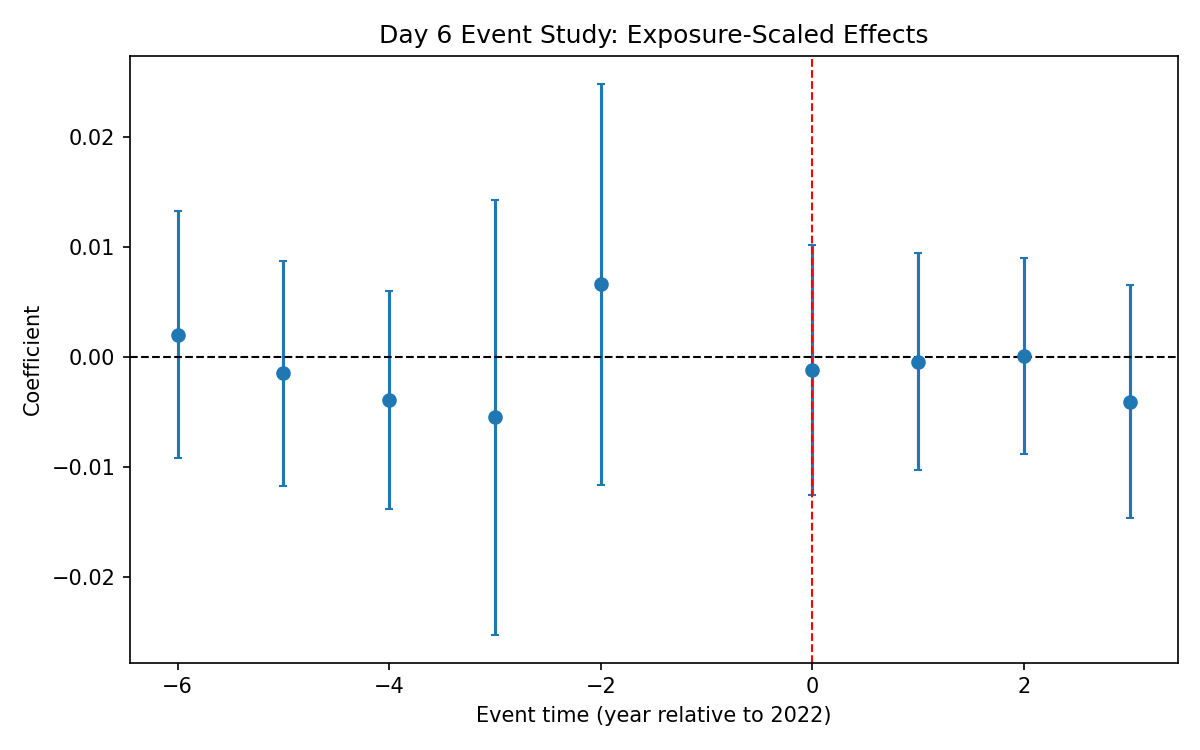
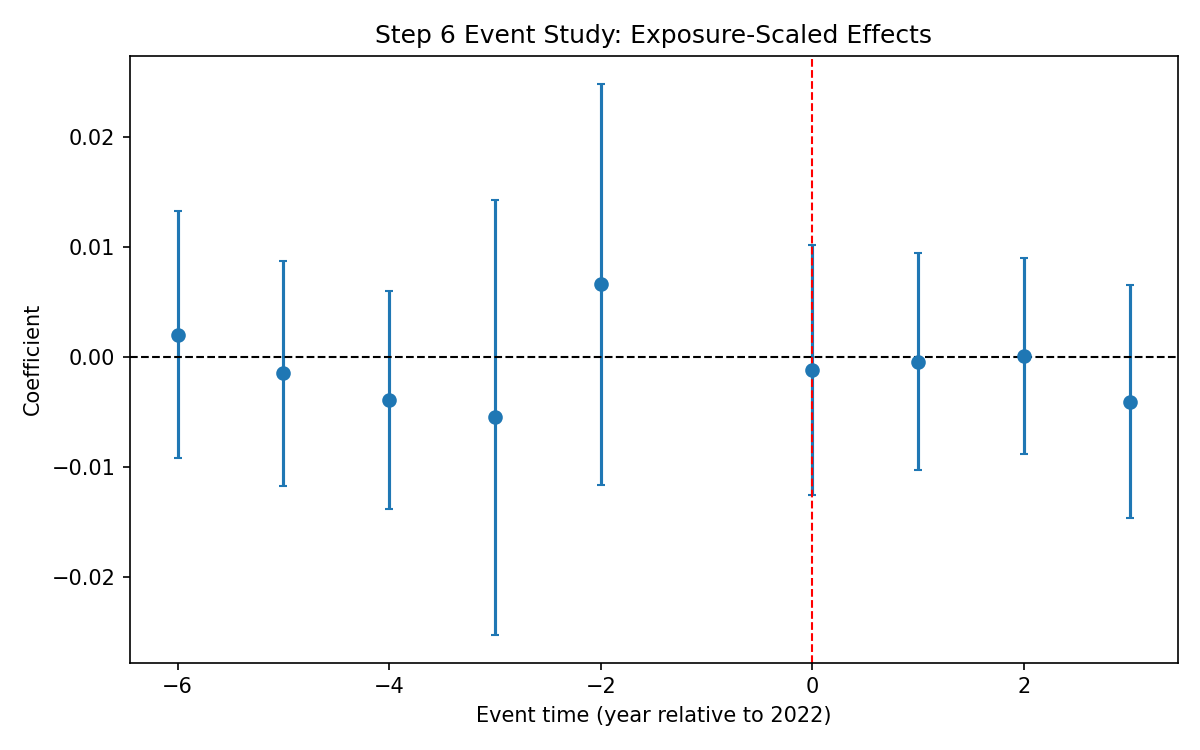
refactor: standardize step artifact naming and rerun pipeline

Changed region(s): [[0.3083, 0.0307, 0.7708, 0.0613]]

diff --git a/scripts/step7_finalize.py b/scripts/step7_finalize.py
@@ -12,21 +12,32 @@ def _read_json(p: Path):
     return json.loads(p.read_text()) if p.exists() else {}
 
 
-def main():
+def main() -> None:
     DOCS.mkdir(parents=True, exist_ok=True)
 
-    d3 = _read_json(OUT / "day3_eda_metrics.json")
-    d4 = _read_json(OUT / "day4_twfe_baseline_summary.json")
-    d5 = _read_json(OUT / "day5_robustness_summary.json")
-    d6 = _read_json(OUT / "day6_event_study_summary.json")
+    d3 = _read_json(OUT / "step3_eda_metrics.json")
+    d4 = _read_json(OUT / "step4_twfe_baseline_summary.json")
+    d5 = _read_json(OUT / "step5_robustness_summary.json")
+    d6 = _read_json(OUT / "step6_event_study_summary.json")
 
-    robustness = pd.read_csv(OUT / "day5_robustness_results.csv") if (OUT / "day5_robustness_results.csv").exists() else pd.DataFrame()
-    event = pd.read_csv(OUT / "day6_event_study_coefficients.csv") if (OUT / "day6_event_study_coefficients.csv").exists() else pd.DataFrame()
+    event = pd.read_csv(OUT / "step6_event_study_coefficients.csv") if (OUT / "step6_event_study_coefficients.csv").exists() else pd.DataFrame()
 
     pre = event[(event.get("event_time", pd.Series(dtype=float)) <= -2)] if not event.empty else pd.DataFrame()
     post = event[(event.get("event_time", pd.Series(dtype=float)) >= 0)] if not event.empty else pd.DataFrame()
 
     note = f"""# Step 7 — Final Public Research Progress Summary
+
+## Abstract (Academic Style)
+This project examines whether occupational AI exposure is systematically associated with differential wage-growth dynamics in U.S. major occupation groups. We merge a static occupation-level exposure measure (AIOE Appendix A) with annual FRED earnings series to construct a transparent, reproducible panel. The empirical design progresses from descriptive diagnostics to a two-way fixed effects (TWFE) exposure-intensity specification, robustness checks (alternative post thresholds and winsorized outcomes), and an event-study representation around the 2022 reference break. Across specifications, point estimates are economically small and statistically imprecise in this limited five-group panel, with no robust evidence of a large post-2022 differential wage-growth shift attributable to exposure intensity. These findings are best interpreted as disciplined reduced-form evidence and baseline measurement infrastructure, rather than definitive causal identification of realized AI adoption effects.
+
+## Executive Summary
+- **Objective:** Build a public, reproducible Step 1–Step 7 research package on AI exposure and wage growth.
+- **Data:** AIOE occupation exposure + annual FRED earnings series mapped to 5 major occupation groups.
+- **Core model:** TWFE intensity DiD (`ai_exposure_mean × 1[year>=2022]`) with group and year fixed effects.
+- **Main result:** Baseline coefficient = **{d4.get('coef', float('nan')):.6f}** (SE **{d4.get('se_hc1', float('nan')):.6f}**), indicating no large detectable post-2022 differential effect in this sample.
+- **Robustness:** Alternative threshold and winsorized outcome checks do not overturn the baseline null framing.
+- **Dynamics:** Event-study coefficients around 2022 do not show a strong discontinuous shift.
+- **Interpretation:** Useful as a reproducible baseline and screening framework; stronger treatment observability is required for structural causal claims.
 
 ## Completion status
 - Step 1 ✅ Problem framing
@@ -46,26 +57,26 @@ def main():
 - Step 6 mean post-event coefficient (k>=0): **{post['coef'].mean() if not post.empty else float('nan'):.6f}**
 
 ## Public artifacts
-- `docs/DAY1_problem_framing.md`
-- `docs/DAY2_data_extraction_spec.md`
-- `docs/DAY2_preanalysis_lock.md`
-- `docs/DAY3_eda_note.md`
-- `docs/DAY4_baseline_twfe_note.md`
-- `docs/DAY5_robustness_note.md`
-- `docs/DAY6_event_study_note.md`
-- `docs/DAY7_final_summary.md`
+- `docs/STEP1_problem_framing.md`
+- `docs/STEP2_data_extraction_spec.md`
+- `docs/STEP2_preanalysis_lock.md`
+- `docs/STEP3_eda_note.md`
+- `docs/STEP4_baseline_twfe_note.md`
+- `docs/STEP5_robustness_note.md`
+- `docs/STEP6_event_study_note.md`
+- `docs/STEP7_final_summary.md`
 
-- `outputs/day3_*`
-- `outputs/day4_twfe_baseline_results.csv`
-- `outputs/day5_robustness_results.csv`
-- `outputs/day6_event_study_coefficients.csv`
-- `outputs/day6_event_study_plot.png`
+- `outputs/step3_*`
+- `outputs/step4_twfe_baseline_results.csv`
+- `outputs/step5_robustness_results.csv`
+- `outputs/step6_event_study_coefficients.csv`
+- `outputs/step6_event_study_plot.png`
 
 ## Interpretation discipline
 This remains a reduced-form, exposure-intensity design. Findings are not interpreted as structural causal AI adoption effects without stronger treatment observability and richer identification assumptions.
 """
-    (DOCS / "DAY7_final_summary.md").write_text(note)
-    print(json.dumps({"status": "day7_complete"}, indent=2))
+    (DOCS / "STEP7_final_summary.md").write_text(note)
+    print(json.dumps({"status": "step7_complete"}, indent=2))
 
 
 if __name__ == "__main__":

diff --git a/scripts/step3_eda.py b/scripts/step3_eda.py
@@ -26,7 +26,7 @@ def main() -> None:
     )
 
     latest = latest.merge(avg_growth, on="major_group", how="left")
-    latest.to_csv(OUTPUTS / "day3_group_latest_snapshot.csv", index=False)
+    latest.to_csv(OUTPUTS / "step3_group_latest_snapshot.csv", index=False)
 
     corr_latest_cum = float(latest["ai_exposure_mean"].corr(latest["cum_growth_since_start"]))
     corr_latest_avg = float(latest["ai_exposure_mean"].corr(latest["avg_wage_growth_yoy"]))
@@ -38,7 +38,7 @@ def main() -> None:
         .apply(lambda g: g["ai_exposure_mean"].corr(g["wage_growth_yoy"]))
         .reset_index(name="corr_exposure_vs_wage_growth_yoy")
     )
-    yearly_corr.to_csv(OUTPUTS / "day3_yearly_corr.csv", index=False)
+    yearly_corr.to_csv(OUTPUTS / "step3_yearly_corr.csv", index=False)
 
     # Scatter plot (latest year)
     fig, ax = plt.subplots(figsize=(9, 6))
@@ -57,7 +57,7 @@ def main() -> None:
     ax.set_xlabel("Mean AI Exposure (AIOE), major group")
     ax.set_ylabel("Cumulative nominal wage growth since start")
     fig.tight_layout()
-    fig.savefig(OUTPUTS / "day3_exposure_vs_cum_growth_latest.png", dpi=150)
+    fig.savefig(OUTPUTS / "step3_exposure_vs_cum_growth_latest.png", dpi=150)
     plt.close(fig)
 
     metrics = {
@@ -68,7 +68,7 @@ def main() -> None:
         "n_groups_latest": int(latest.shape[0]),
         "n_obs_pooled": int(pooled.shape[0]),
     }
-    with open(OUTPUTS / "day3_eda_metrics.json", "w") as f:
+    with open(OUTPUTS / "step3_eda_metrics.json", "w") as f:
         json.dump(metrics, f, indent=2)
 
     note = f"""# Step 3 — EDA Note
@@ -83,17 +83,17 @@ Exploratory diagnostics linking major-group AI exposure (AIOE) and nominal weekl
 - Corr(exposure, pooled YoY growth): **{corr_pooled:.4f}**
 
 ## Artifacts
-- `outputs/day3_group_latest_snapshot.csv`
-- `outputs/day3_yearly_corr.csv`
-- `outputs/day3_eda_metrics.json`
-- `outputs/day3_exposure_vs_cum_growth_latest.png`
+- `outputs/step3_group_latest_snapshot.csv`
+- `outputs/step3_yearly_corr.csv`
+- `outputs/step3_eda_metrics.json`
+- `outputs/step3_exposure_vs_cum_growth_latest.png`
 
 ## Interpretation guardrails
 - These are descriptive correlations over a very small cross-section (5 major groups).
 - Exposure is capability-based and static; this does not identify realized AI adoption effects.
 - Results should be treated as directional signal generation for later, richer designs.
 """
-    (DOCS / "DAY3_eda_note.md").write_text(note)
+    (DOCS / "STEP3_eda_note.md").write_text(note)
 
     print(json.dumps(metrics, indent=2))
 

diff --git a/scripts/step6_event_study.py b/scripts/step6_event_study.py
@@ -58,7 +58,7 @@ def main():
 
     ref_row = pd.DataFrame([{"term": "reference", "coef": 0.0, "se": np.nan, "event_time": ref, "ci95_low": np.nan, "ci95_high": np.nan}])
     ev = pd.concat([ev, ref_row], ignore_index=True).sort_values("event_time")
-    ev.to_csv(OUT / "day6_event_study_coefficients.csv", index=False)
+    ev.to_csv(OUT / "step6_event_study_coefficients.csv", index=False)
 
     p = ev[ev["term"] != "reference"]
     plt.figure(figsize=(8, 5))
@@ -69,15 +69,15 @@ def main():
     plt.xlabel("Event time (year relative to 2022)")
     plt.ylabel("Coefficient")
     plt.tight_layout()
-    plt.savefig(OUT / "day6_event_study_plot.png", dpi=150)
+    plt.savefig(OUT / "step6_event_study_plot.png", dpi=150)
     plt.close()
 
     summary = {"n_obs": int(n), "event_window": [min(window), max(window)], "reference": ref}
-    (OUT / "day6_event_study_summary.json").write_text(json.dumps(summary, indent=2))
-    (DOCS / "DAY6_event_study_note.md").write_text(
+    (OUT / "step6_event_study_summary.json").write_text(json.dumps(summary, indent=2))
+    (DOCS / "STEP6_event_study_note.md").write_text(
         "# Step 6 — Event-Study Note\n\n"
         "Estimated exposure-scaled event-time coefficients relative to reference year -1 (2021).\n"
-        "See `outputs/day6_event_study_coefficients.csv` and `outputs/day6_event_study_plot.png`.\n"
+        "See `outputs/step6_event_study_coefficients.csv` and `outputs/step6_event_study_plot.png`.\n"
     )
     print(json.dumps(summary, indent=2))
 

diff --git a/scripts/step4_baseline_twfe.py b/scripts/step4_baseline_twfe.py
@@ -52,7 +52,7 @@ def main() -> None:
     names = ["const", "ai_exposure_x_post2022", *[f"g_{g}" for g in groups[1:]], *[f"year_{y}" for y in years[1:]]]
 
     res = ols_hc1(X, df["wage_growth_yoy"].to_numpy(float), names)
-    res.to_csv(OUT / "day4_twfe_baseline_results.csv", index=False)
+    res.to_csv(OUT / "step4_twfe_baseline_results.csv", index=False)
 
     key = res.loc[res["term"] == "ai_exposure_x_post2022"].iloc[0].to_dict()
     summary = {
@@ -66,7 +66,7 @@ def main() -> None:
         "ci95_high": float(key["ci95_high"]),
         "n_obs": int(key["n_obs"]),
     }
-    (OUT / "day4_twfe_baseline_summary.json").write_text(json.dumps(summary, indent=2))
+    (OUT / "step4_twfe_baseline_summary.json").write_text(json.dumps(summary, indent=2))
 
     note = f"""# Step 4 — Baseline TWFE Intensity DiD
 
@@ -83,7 +83,7 @@ Key coefficient (`ai_exposure_x_post2022`):
 - 95% CI: **[{summary['ci95_low']:.6f}, {summary['ci95_high']:.6f}]**
 - N: **{summary['n_obs']}**
 """
-    (DOCS / "DAY4_baseline_twfe_note.md").write_text(note)
+    (DOCS / "STEP4_baseline_twfe_note.md").write_text(note)
     print(json.dumps(summary, indent=2))
 
 

diff --git a/scripts/step5_robustness.py b/scripts/step5_robustness.py
@@ -57,19 +57,19 @@ def main():
     rows.append(rw)
 
     out = pd.DataFrame(rows)
-    out.to_csv(OUT / "day5_robustness_results.csv", index=False)
+    out.to_csv(OUT / "step5_robustness_results.csv", index=False)
 
     summary = {
         "n_specs": int(len(out)),
         "main_spec_coef": float(out.loc[out["spec"]=="post_2022", "coef"].iloc[0]),
         "main_spec_se": float(out.loc[out["spec"]=="post_2022", "se"].iloc[0]),
     }
-    (OUT / "day5_robustness_summary.json").write_text(json.dumps(summary, indent=2))
+    (OUT / "step5_robustness_summary.json").write_text(json.dumps(summary, indent=2))
 
-    (DOCS / "DAY5_robustness_note.md").write_text(
+    (DOCS / "STEP5_robustness_note.md").write_text(
         "# Step 5 — Robustness Note\n\n"
         "Ran threshold-placebo and winsorized-outcome robustness checks for the intensity TWFE design.\n"
-        "See `outputs/day5_robustness_results.csv`.\n"
+        "See `outputs/step5_robustness_results.csv`.\n"
     )
     print(json.dumps(summary, indent=2))
 

diff --git a/scripts/step2_ingest_build_panel.py b/scripts/step2_ingest_build_panel.py
@@ -106,7 +106,7 @@ def main() -> None:
         "series_used": SERIES,
         "source_aioe": AIOE_URL,
     }
-    with open(OUTPUTS / "day2_panel_build_summary.json", "w") as f:
+    with open(OUTPUTS / "step2_panel_build_summary.json", "w") as f:
         json.dump(summary, f, indent=2)
 
     print(json.dumps(summary, indent=2))

diff --git a/docs/STEP7_final_summary.md b/docs/STEP7_final_summary.md
@@ -30,20 +30,20 @@ This project examines whether occupational AI exposure is systematically associa
 - Step 6 mean post-event coefficient (k>=0): **-0.001379**
 
 ## Public artifacts
-- `docs/DAY1_problem_framing.md`
-- `docs/DAY2_data_extraction_spec.md`
-- `docs/DAY2_preanalysis_lock.md`
-- `docs/DAY3_eda_note.md`
-- `docs/DAY4_baseline_twfe_note.md`
-- `docs/DAY5_robustness_note.md`
-- `docs/DAY6_event_study_note.md`
-- `docs/DAY7_final_summary.md`
+- `docs/STEP1_problem_framing.md`
+- `docs/STEP2_data_extraction_spec.md`
+- `docs/STEP2_preanalysis_lock.md`
+- `docs/STEP3_eda_note.md`
+- `docs/STEP4_baseline_twfe_note.md`
+- `docs/STEP5_robustness_note.md`
+- `docs/STEP6_event_study_note.md`
+- `docs/STEP7_final_summary.md`
 
-- `outputs/day3_*`
-- `outputs/day4_twfe_baseline_results.csv`
-- `outputs/day5_robustness_results.csv`
-- `outputs/day6_event_study_coefficients.csv`
-- `outputs/day6_event_study_plot.png`
+- `outputs/step3_*`
+- `outputs/step4_twfe_baseline_results.csv`
+- `outputs/step5_robustness_results.csv`
+- `outputs/step6_event_study_coefficients.csv`
+- `outputs/step6_event_study_plot.png`
 
 ## Interpretation discipline
 This remains a reduced-form, exposure-intensity design. Findings are not interpreted as structural causal AI adoption effects without stronger treatment observability and richer identification assumptions.

diff --git a/README.md b/README.md
@@ -21,11 +21,20 @@ Canonical project repo for approved topic:
 │   ├── STEP1_problem_framing.md
 │   ├── STEP2_data_extraction_spec.md
 │   ├── STEP2_preanalysis_lock.md
-│   └── STEP3_eda_note.md
+│   ├── STEP3_eda_note.md
+│   ├── STEP4_baseline_twfe_note.md
+│   ├── STEP5_robustness_note.md
+│   ├── STEP6_event_study_note.md
+│   └── STEP7_final_summary.md
 ├── scripts/
 │   ├── step2_ingest_build_panel.py
 │   ├── step3_eda.py
-│   └── run_day2_day3.py
+│   ├── step4_baseline_twfe.py
+│   ├── step5_robustness.py
+│   ├── step6_event_study.py
+│   ├── step7_finalize.py
+│   ├── run_step2_step3.py
+│   └── run_step4_step7.py
 ├── data_raw/
 ├── data_analysis/
 └── outputs/
@@ -46,7 +55,8 @@ Canonical project repo for approved topic:
 python3 -m venv .venv
 source .venv/bin/activate
 pip install -r requirements.txt
-python scripts/run_day2_day3.py
+python scripts/run_step2_step3.py
+python scripts/run_step4_step7.py
 ```
 
 ## Notes

diff --git a/docs/STEP3_eda_note.md b/docs/STEP3_eda_note.md
@@ -10,10 +10,10 @@ Exploratory diagnostics linking major-group AI exposure (AIOE) and nominal weekl
 - Corr(exposure, pooled YoY growth): **0.0495**
 
 ## Artifacts
-- `outputs/day3_group_latest_snapshot.csv`
-- `outputs/day3_yearly_corr.csv`
-- `outputs/day3_eda_metrics.json`
-- `outputs/day3_exposure_vs_cum_growth_latest.png`
+- `outputs/step3_group_latest_snapshot.csv`
+- `outputs/step3_yearly_corr.csv`
+- `outputs/step3_eda_metrics.json`
+- `outputs/step3_exposure_vs_cum_growth_latest.png`
 
 ## Interpretation guardrails
 - These are descriptive correlations over a very small cross-section (5 major groups).

diff --git a/docs/STEP2_data_extraction_spec.md b/docs/STEP2_data_extraction_spec.md
@@ -29,6 +29,6 @@
 - `cum_growth_since_start`
 
 ## Reproducibility
-- All ingestion and transforms are in `scripts/day2_ingest_build_panel.py`
+- All ingestion and transforms are in `scripts/step2_ingest_build_panel.py`
 - Raw pulls are stored in `data_raw/`
 - Analysis-ready panel is written to `data_analysis/panel_annual_majorgroup.csv`

diff --git a/docs/STEP6_event_study_note.md b/docs/STEP6_event_study_note.md
@@ -1,4 +1,4 @@
 # Step 6 — Event-Study Note
 
 Estimated exposure-scaled event-time coefficients relative to reference year -1 (2021).
-See `outputs/day6_event_study_coefficients.csv` and `outputs/day6_event_study_plot.png`.
+See `outputs/step6_event_study_coefficients.csv` and `outputs/step6_event_study_plot.png`.

diff --git a/docs/STEP5_robustness_note.md b/docs/STEP5_robustness_note.md
@@ -1,4 +1,4 @@
 # Step 5 — Robustness Note
 
 Ran threshold-placebo and winsorized-outcome robustness checks for the intensity TWFE design.
-See `outputs/day5_robustness_results.csv`.
+See `outputs/step5_robustness_results.csv`.
